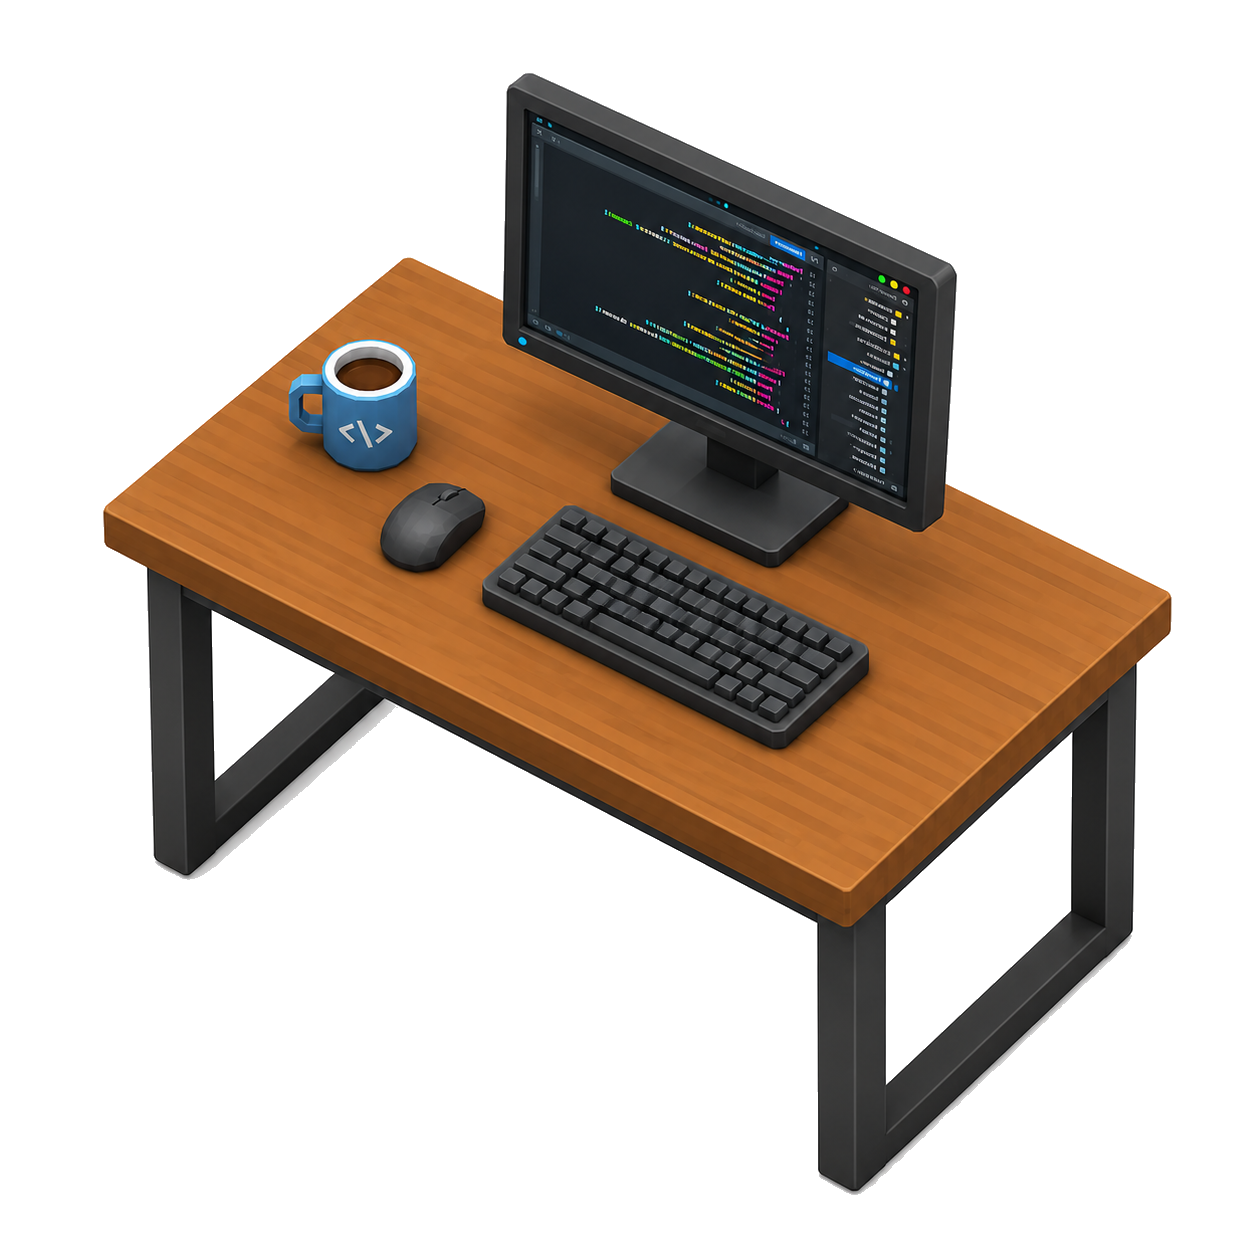
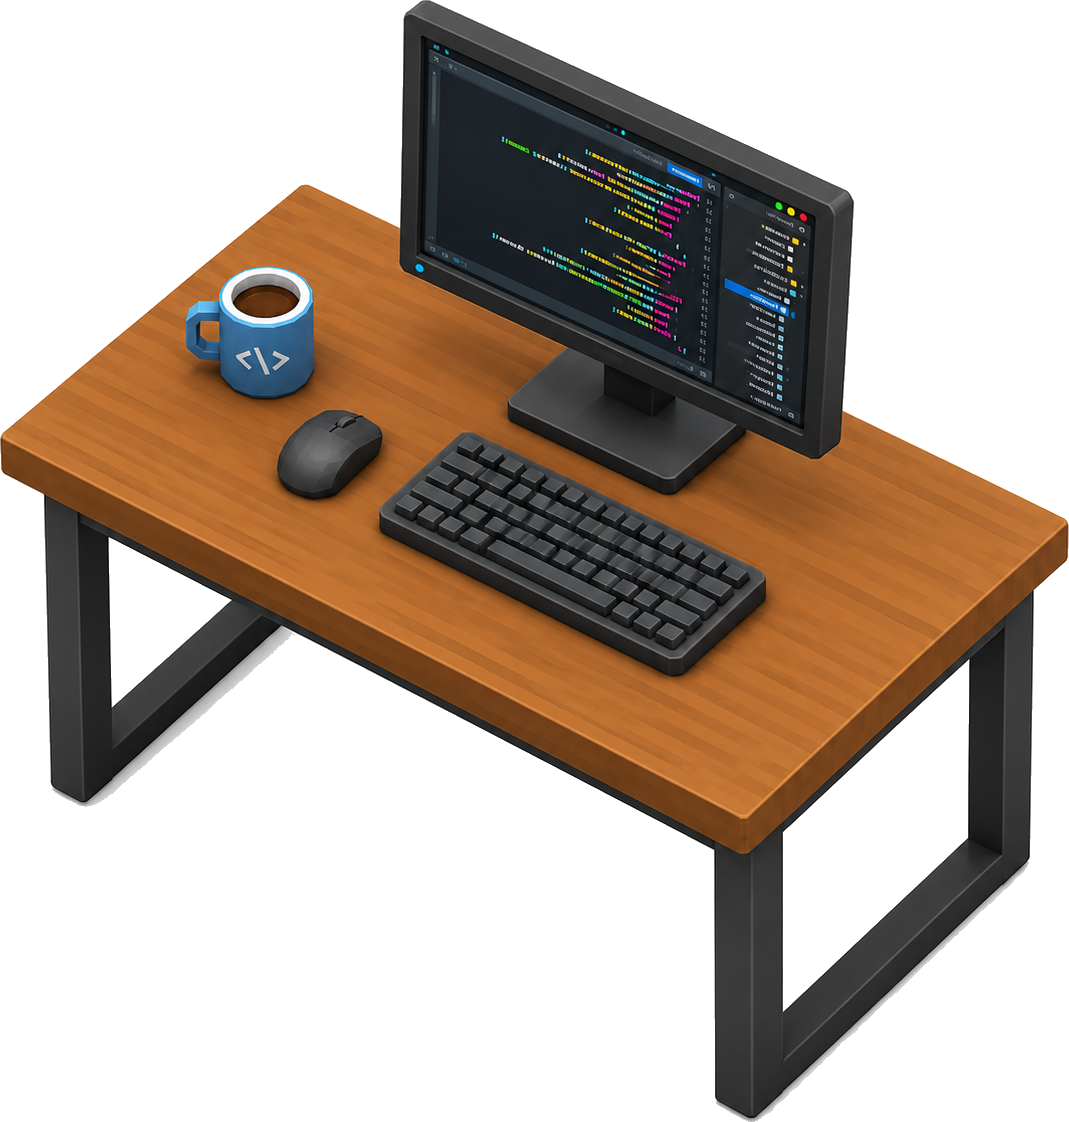
Arte real: integra os 21 móveis (imagens PNG) no renderer Canvas
Mapeia todos os móveis do jogo para os assets de imagem em ASSET_CFG
(js/iso.js): cozinha (geladeira/fogão/pia/micro-ondas/mesa/banquinho),
lounge (sofá/mesa de centro/TV/pufe/fliperama/sinuca), recepção/reunião
(balcão/cadeira/planta/mesa de reunião) e equipamentos (server/bebedouro/
impressora), além de mesa de trabalho e cafeteira. Cada um com âncora/tamanho/
posição próprios; drawSprite ganha padrões (anchorX 0.5, anchorY 0.78).

A cena inteira agora é arte isométrica real (era procedural). Tamanhos/posições
são um primeiro passe — o ajuste fino (ex.: cafeteira sobre a bancada, cozinha
mais folgada) entra junto com o novo sistema de espaço/posicionamento pedido
pelo dono. As cadeiras das mesas seguem procedurais (o funcionário senta nelas).

diff --git a/js/iso.js b/js/iso.js
@@ -74,11 +74,36 @@
   // ---------- arte real (imagens PNG) sobre o renderer Canvas nítido ----------
   // Cada tipo com asset usa drawImage (downscale nítido da imagem de alta
   // resolução); os que não têm asset caem no desenho procedural (fallback).
-  // Ajuste de âncora/tamanho/posição por item (worldW em px de mundo).
+  // Ajuste por item: worldW (largura em px de mundo), anchorY (~ponto que toca
+  // o chão), offGx/offGy (desloca o (gx,gy) da grade p/ o centro do móvel).
+  // anchorX = 0.5 e offsets = 0 por padrão. A CHAVE é o tipo do móvel no jogo.
   const ASSET_CFG = {
-    desk:   { file: 'desk.png',           anchorX: 0.5, anchorY: 0.72, worldW: 66, offGx: 0.35, offGy: 0.28 },
-    sofa:   { file: 'sofa.png',           anchorX: 0.5, anchorY: 0.72, worldW: 84, offGx: 0.55, offGy: 0.30 },
-    coffee: { file: 'coffee-machine.png', anchorX: 0.5, anchorY: 0.80, worldW: 58, offGx: 0,    offGy: 0 },
+    // especiais (mesa de trabalho e cafeteira)
+    desk:        { file: 'desk.png',           worldW: 66,  anchorY: 0.72, offGx: 0.35, offGy: 0.28 },
+    coffee:      { file: 'coffee-machine.png', worldW: 56,  anchorY: 0.82 },
+    // cozinha
+    fridge:      { file: 'fridge.png',         worldW: 46,  anchorY: 0.84, offGx: 0.25, offGy: 0.21 },
+    stove:       { file: 'stove.png',          worldW: 50,  anchorY: 0.82, offGx: 0.24, offGy: 0.21 },
+    sink:        { file: 'sink.png',           worldW: 52,  anchorY: 0.80, offGx: 0.25, offGy: 0.21 },
+    microwave:   { file: 'microwave.png',      worldW: 36,  anchorY: 0.80, offGx: 0.15, offGy: 0.12 },
+    diningTable: { file: 'dining-table.png',   worldW: 58,  anchorY: 0.76, offGx: 0.26, offGy: 0.26 },
+    stool:       { file: 'stool.png',          worldW: 32,  anchorY: 0.82, offGx: 0.17, offGy: 0.17 },
+    // lounge
+    sofa:        { file: 'sofa.png',           worldW: 78,  anchorY: 0.74, offGx: 0.49, offGy: 0.25 },
+    coffeeTable: { file: 'coffee-table.png',   worldW: 46,  anchorY: 0.78, offGx: 0.22, offGy: 0.18 },
+    tv:          { file: 'tv.png',             worldW: 50,  anchorY: 0.86, offGx: 0.25, offGy: 0.03 },
+    pufe:        { file: 'beanbag.png',        worldW: 40,  anchorY: 0.80 },
+    arcade:      { file: 'arcade.png',         worldW: 44,  anchorY: 0.85 },
+    poolTable:   { file: 'pool-table.png',     worldW: 72,  anchorY: 0.76, offGx: 0.35, offGy: 0.25 },
+    // recepção / reunião
+    reception:   { file: 'reception.png',      worldW: 88,  anchorY: 0.74, offGx: 0.5,  offGy: 0.35 },
+    chair:       { file: 'office-chair.png',   worldW: 32,  anchorY: 0.82 },
+    plantBig:    { file: 'plant.png',          worldW: 34,  anchorY: 0.85 },
+    meetingTable:{ file: 'meeting-table.png',  worldW: 118, anchorY: 0.74, offGx: 0.7,  offGy: 0.35 },
+    // equipamentos
+    serverRack:  { file: 'server-rack.png',    worldW: 42,  anchorY: 0.86 },
+    waterCooler: { file: 'water-cooler.png',   worldW: 32,  anchorY: 0.88 },
+    printer:     { file: 'printer.png',        worldW: 38,  anchorY: 0.80 },
   };
   const assets = {};
   function loadAssets() {
@@ -91,9 +116,11 @@
   }
   function drawSprite(a, gx, gy) {
     const cfg = a.cfg;
+    const ax = cfg.anchorX != null ? cfg.anchorX : 0.5;
+    const ay = cfg.anchorY != null ? cfg.anchorY : 0.78;
     const p = iso(gx + (cfg.offGx || 0), gy + (cfg.offGy || 0));
     const w = cfg.worldW, h = w * a.img.height / a.img.width;
-    ctx.drawImage(a.img, p.x - cfg.anchorX * w, p.y - cfg.anchorY * h, w, h);
+    ctx.drawImage(a.img, p.x - ax * w, p.y - ay * h, w, h);
   }
 
   // ---------- inicialização ----------
